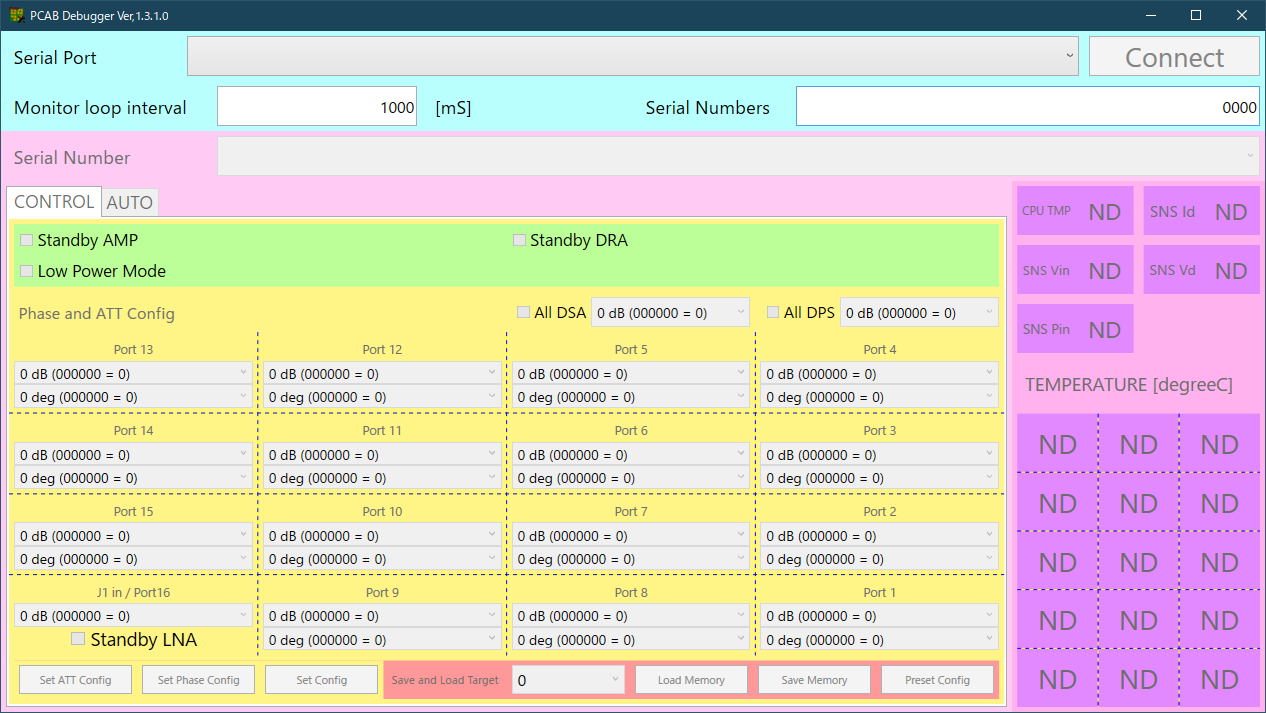
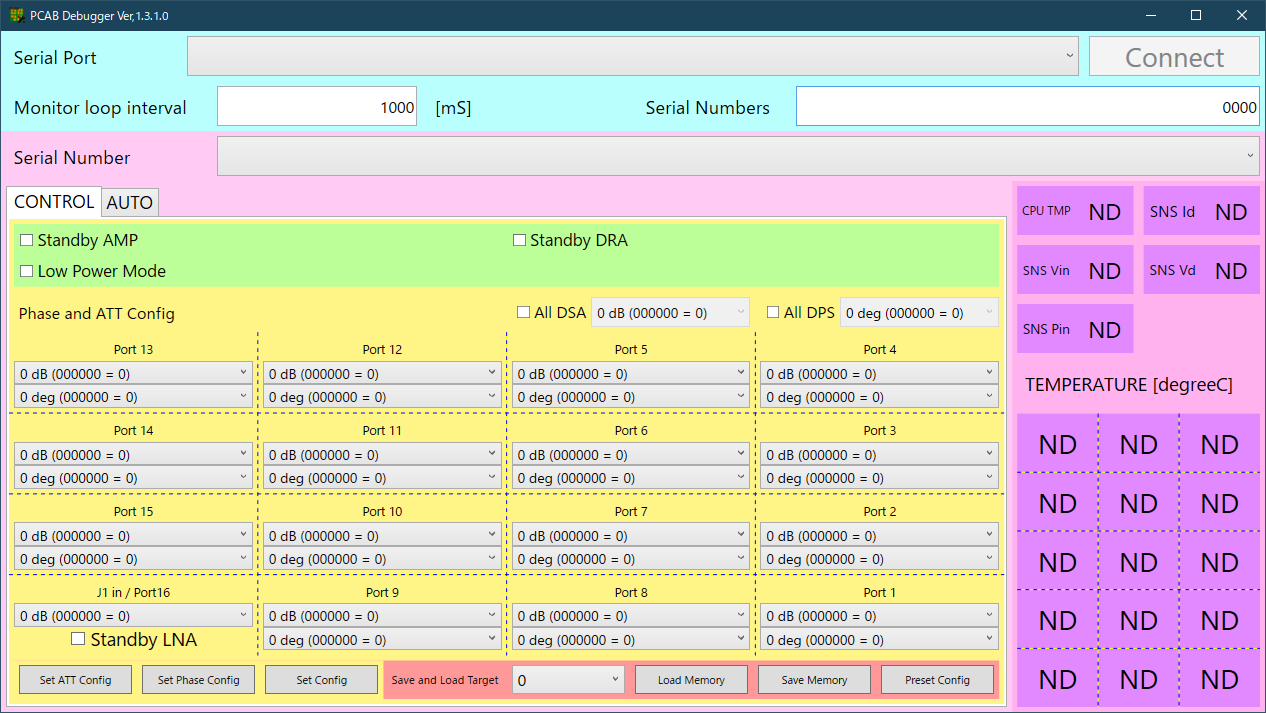
v1.3.1

diff --git a/PCAB_Debugger_GUI/winMain.xaml b/PCAB_Debugger_GUI/winMain.xaml
@@ -143,7 +143,7 @@
                                         <Viewbox Grid.Column="0" Margin="5" HorizontalAlignment="Right">
                                             <CheckBox x:Name="ALL_DPS_CHECKBOX" VerticalContentAlignment="Center" Content="All DPS" Indeterminate="CHECKBOX_Indeterminate" Checked="ALL_DPS_CHECKBOX_Checked" Unchecked="ALL_DPS_CHECKBOX_Unchecked" />
                                         </Viewbox>
-                                        <ComboBox Grid.Column="1" SelectedIndex="0" x:Name="ALL_DPS_COMBOBOX" IsEnabled="False" ItemsSource="{StaticResource DSA_List}" Style="{StaticResource COMBOBOX_CONTENT_CENTER}" SelectionChanged="ALL_DPS_COMBOBOX_SelectionChanged"/>
+                                        <ComboBox Grid.Column="1" SelectedIndex="0" x:Name="ALL_DPS_COMBOBOX" IsEnabled="False" ItemsSource="{StaticResource DPS_List}" Style="{StaticResource COMBOBOX_CONTENT_CENTER}" SelectionChanged="ALL_DPS_COMBOBOX_SelectionChanged"/>
                                     </Grid>
                                 </Grid>
                                 <Grid x:Name="Port_GRID" Grid.Row="1" ShowGridLines="True">
@@ -471,7 +471,7 @@
                                         <ColumnDefinition Width="3*"/>
                                     </Grid.ColumnDefinitions>
                                     <CheckBox x:Name="DPS_VnaLoopEnable" Content="DPS Loop" Margin="5" VerticalContentAlignment="Center" HorizontalContentAlignment="Left" Checked="DPS_VnaLoopEnable_Checked" Unchecked="DPS_VnaLoopEnable_Unchecked"/>
-                                    <Label Grid.Column="1" Content="DPS step" Margin="5" VerticalContentAlignment="Center" HorizontalContentAlignment="Right"/>
+                                    <Viewbox Grid.Column="1" Margin="5" HorizontalAlignment="Right"><Label Content="DPS step"/></Viewbox>
                                     <ComboBox Grid.Column="2" SelectedIndex="0" x:Name="VNALOOP_DPSstep_COMBOBOX" ItemsSource="{StaticResource DPS_StepList}" Style="{StaticResource COMBOBOX_CONTENT_CENTER}" Margin="5"/>
                                 </Grid>
                                 <Grid Grid.Row="0" Grid.Column="1" Margin="5">
@@ -481,7 +481,7 @@
                                         <ColumnDefinition Width="3*"/>
                                     </Grid.ColumnDefinitions>
                                     <CheckBox x:Name="DSA_VnaLoopEnable" Content="DSA Loop" Margin="5" VerticalContentAlignment="Center" HorizontalContentAlignment="Left" Checked="DSA_VnaLoopEnable_Checked" Unchecked="DSA_VnaLoopEnable_Unchecked"/>
-                                    <Label Grid.Column="1" Content="DSA step" Margin="5" VerticalContentAlignment="Center" HorizontalContentAlignment="Right"/>
+                                    <Viewbox Grid.Column="1" Margin="5" HorizontalAlignment="Right"><Label Content="DSA step"/></Viewbox>
                                     <ComboBox Grid.Column="2" SelectedIndex="0" x:Name="VNALOOP_DSAstep_COMBOBOX" ItemsSource="{StaticResource DSA_StepList}" Style="{StaticResource COMBOBOX_CONTENT_CENTER}" Margin="5"/>
                                 </Grid>
                                 <Grid x:Name="DPS_VNALOOP_GRID" Grid.Row="1" Grid.Column="0" Margin="5">

diff --git a/PCAB_Debugger_GUI/winMain.xaml.cs b/PCAB_Debugger_GUI/winMain.xaml.cs
@@ -31,13 +31,13 @@ namespace PCAB_Debugger_GUI
 #if DEBUG
             //Settings.Default.Reset();
             this.Title += "_DEBUG MODE";
-            CONTL_GRID.IsEnabled = true;
+            //CONTL_GRID.IsEnabled = true;
 #endif
             _state = false;
             SERIAL_PORTS_COMBOBOX_RELOAD();
             if (SERIAL_PORTS_COMBOBOX.Items.Count > 0) { SERIAL_PORTS_COMBOBOX.SelectedIndex = 0; CONNECT_BUTTON.IsEnabled = true; }
             sesn = VisaControlNI.NewResourceManager();
-            for (int i = 0; i < ports?.Length; i++) { if (Settings.Default.spCaption == ports[i].Caption) { SERIAL_PORTS_COMBOBOX.SelectedIndex = i; break; } }
+            if (ports != null) { for (int i = 0; i < ports.Length; i++) { if (Settings.Default.spCaption == ports[i].Caption) { SERIAL_PORTS_COMBOBOX.SelectedIndex = i; break; } } }
             WAITE_TIME_TEXTBOX.Text = Settings.Default.mli.ToString("0");
             SERIAL_NUMBERS_TEXTBOX.Text = Settings.Default.sn;
 
@@ -407,32 +407,148 @@ namespace PCAB_Debugger_GUI
 
         private void ALL_DSA_CHECKBOX_Checked(object sender, RoutedEventArgs e)
         {
-
+            ALL_DSA_COMBOBOX.IsEnabled = true;
+            foreach (object objBf in Port_GRID.Children)
+            {
+                if (typeof(Grid) == objBf.GetType())
+                {
+                    if (Regex.IsMatch(((Grid)objBf).Name, "P[0-1][0-9]_GRID") && ((Grid)objBf).Name != "P16_GRID")
+                    {
+                        foreach (object objChild in ((Grid)objBf).Children)
+                        {
+                            if (typeof(ComboBox) == objChild.GetType())
+                            {
+                                if (Regex.IsMatch(((ComboBox)objChild).Name, "DSA[0-1][0-9]_COMBOBOX"))
+                                {
+                                    ((ComboBox)objChild).IsEnabled = false;
+                                    ((ComboBox)objChild).SelectedIndex = ALL_DSA_COMBOBOX.SelectedIndex;
+                                }
+                            }
+                        }
+                    }
+                }
+            }
         }
 
         private void ALL_DSA_CHECKBOX_Unchecked(object sender, RoutedEventArgs e)
         {
-
+            ALL_DSA_COMBOBOX.IsEnabled = false;
+            foreach (object objBf in Port_GRID.Children)
+            {
+                if (typeof(Grid) == objBf.GetType())
+                {
+                    if (Regex.IsMatch(((Grid)objBf).Name, "P[0-1][0-9]_GRID") && ((Grid)objBf).Name != "P16_GRID")
+                    {
+                        foreach (object objChild in ((Grid)objBf).Children)
+                        {
+                            if (typeof(ComboBox) == objChild.GetType())
+                            {
+                                if (Regex.IsMatch(((ComboBox)objChild).Name, "DSA[0-1][0-9]_COMBOBOX"))
+                                {
+                                    ((ComboBox)objChild).IsEnabled = true;
+                                }
+                            }
+                        }
+                    }
+                }
+            }
         }
 
         private void ALL_DPS_CHECKBOX_Checked(object sender, RoutedEventArgs e)
         {
-
+            ALL_DPS_COMBOBOX.IsEnabled = true;
+            foreach (object objBf in Port_GRID.Children)
+            {
+                if (typeof(Grid) == objBf.GetType())
+                {
+                    if (Regex.IsMatch(((Grid)objBf).Name, "P[0-1][0-9]_GRID"))
+                    {
+                        foreach (object objChild in ((Grid)objBf).Children)
+                        {
+                            if (typeof(ComboBox) == objChild.GetType())
+                            {
+                                if (Regex.IsMatch(((ComboBox)objChild).Name, "DPS[0-1][0-9]_COMBOBOX"))
+                                {
+                                    ((ComboBox)objChild).IsEnabled = false;
+                                    ((ComboBox)objChild).SelectedIndex = ALL_DPS_COMBOBOX.SelectedIndex;
+                                }
+                            }
+                        }
+                    }
+                }
+            }
         }
 
         private void ALL_DPS_CHECKBOX_Unchecked(object sender, RoutedEventArgs e)
         {
-
+            ALL_DPS_COMBOBOX.IsEnabled = false;
+            foreach (object objBf in Port_GRID.Children)
+            {
+                if (typeof(Grid) == objBf.GetType())
+                {
+                    if (Regex.IsMatch(((Grid)objBf).Name, "P[0-1][0-9]_GRID"))
+                    {
+                        foreach (object objChild in ((Grid)objBf).Children)
+                        {
+                            if (typeof(ComboBox) == objChild.GetType())
+                            {
+                                if (Regex.IsMatch(((ComboBox)objChild).Name, "DPS[0-1][0-9]_COMBOBOX"))
+                                {
+                                    ((ComboBox)objChild).IsEnabled = true;
+                                }
+                            }
+                        }
+                    }
+                }
+            }
         }
 
         private void ALL_DSA_COMBOBOX_SelectionChanged(object sender, SelectionChangedEventArgs e)
         {
-
+            if (Port_GRID == null) { return; }
+            foreach (object objBf in Port_GRID.Children)
+            {
+                if (typeof(Grid) == objBf.GetType())
+                {
+                    if (Regex.IsMatch(((Grid)objBf).Name, "P[0-1][0-9]_GRID") && ((Grid)objBf).Name != "P16_GRID")
+                    {
+                        foreach (object objChild in ((Grid)objBf).Children)
+                        {
+                            if (typeof(ComboBox) == objChild.GetType())
+                            {
+                                if (Regex.IsMatch(((ComboBox)objChild).Name, "DSA[0-1][0-9]_COMBOBOX"))
+                                {
+                                    ((ComboBox)objChild).SelectedIndex = ALL_DSA_COMBOBOX.SelectedIndex;
+                                }
+                            }
+                        }
+                    }
+                }
+            }
         }
 
         private void ALL_DPS_COMBOBOX_SelectionChanged(object sender, SelectionChangedEventArgs e)
         {
-
+            if (Port_GRID == null) { return; }
+            foreach (object objBf in Port_GRID.Children)
+            {
+                if (typeof(Grid) == objBf.GetType())
+                {
+                    if (Regex.IsMatch(((Grid)objBf).Name, "P[0-1][0-9]_GRID"))
+                    {
+                        foreach (object objChild in ((Grid)objBf).Children)
+                        {
+                            if (typeof(ComboBox) == objChild.GetType())
+                            {
+                                if (Regex.IsMatch(((ComboBox)objChild).Name, "DPS[0-1][0-9]_COMBOBOX"))
+                                {
+                                    ((ComboBox)objChild).SelectedIndex = ALL_DPS_COMBOBOX.SelectedIndex;
+                                }
+                            }
+                        }
+                    }
+                }
+            }
         }
         #endregion
 
